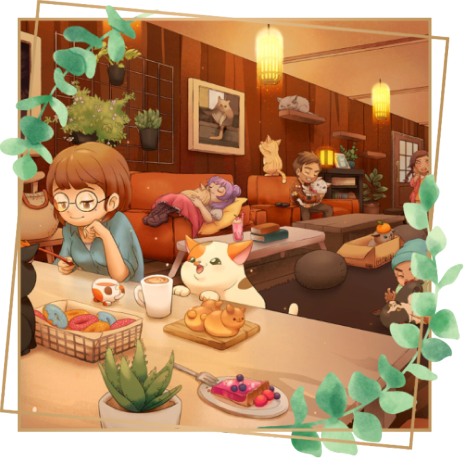
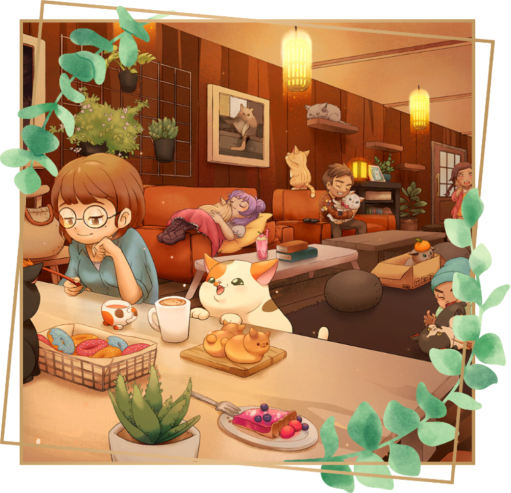
feat: Update background design of home page

diff --git a/cafe.html b/cafe.html
@@ -14,6 +14,57 @@
   </head>
   <body style="margin: 0">
   <script>
+  var recordButton = document.getElementById("recordButton");
+var audioContext = new AudioContext();
+var audioChunks = [];
+
+recordButton.addEventListener("click", function() {
+  if (audioContext.state === 'suspended') {
+    audioContext.resume();
+  }
+
+  if (recordButton.textContent === "Record") {
+    navigator.mediaDevices.getUserMedia({ audio: true })
+    .then(function(stream) {
+      var mediaRecorder = new MediaRecorder(stream);
+      mediaRecorder.start();
+
+      mediaRecorder.addEventListener("dataavailable", function(event) {
+        audioChunks.push(event.data);
+      });
+
+      mediaRecorder.addEventListener("stop", function() {
+        var audioBlob = new Blob(audioChunks);
+        audioChunks = [];
+        var formData = new FormData();
+        formData.append("file", audioBlob, "recording.wav");
+
+        $.ajax({
+          url: "https://api.whisper.ai/upload",
+          method: "POST",
+          data: formData,
+          processData: false,
+          contentType: false,
+          success: function(response) {
+            console.log(response);
+          },
+          error: function(error) {
+            console.log(error);
+          }
+        });
+      });
+
+      recordButton.textContent = "Stop";
+    });
+  } else {
+    mediaRecorder.stop();
+    recordButton.textContent = "Record";
+  }
+});
+  error: function(error) {
+    console.log(error);
+  }
+});
       function play() {
         var audio = document.getElementById("audio");
         audio.play();
@@ -49,11 +100,11 @@
             <img class="image-3 image" src="img/image-3@2x.png" alt="image 3" />
             <div class="rectangle-4"></div>
             <div class="rectangle-5"></div>
-            <a href="{{ url_for('play-audio')}}" ><h1 class="repeat">Repeat</h1></a>
-<!--              <div class="repeat"><input type="button" value="Repeat" onclick="play()">-->
+            <a href="#" onclick="return false;"><h1 class="repeat">Repeat</h1></a>
+            <a href="https://github.com/young-chen2/treehacks-23"><h1 class="title">Speak</h1></a>
 <!--              <audio id="audio" src="response.mp3"></audio></div>-->
 <!--            <div class="repeat"><input type="button" value="Repeat" onclick="play()">-->
-            <a href="#" onclick="window.open({{ url_for('record-audio')}}); window.open({{ url_for('upload-audio')}});"><h1 class="title">Speak</h1></a>
+<!--            <h1 class="title"><button id="recordButton">Speak</button></h1></a>-->
             <img
               class="icon-message-question"
               src="img/---icon--message-question-@2x.png"

diff --git a/home.html b/home.html
@@ -4,22 +4,22 @@
     <meta charset="utf-8" />
     <!--<meta name=description content="This site was generated with Anima. www.animaapp.com"/>-->
     <!-- <link rel="shortcut icon" type=image/png href="https://animaproject.s3.amazonaws.com/home/favicon.png" /> -->
-    <meta name="viewport" content="width=1440, maximum-scale=1.0" />
+    <meta name="viewport" content="width=1920, maximum-scale=1.0" />
     <link rel="shortcut icon" type="image/png" href="https://animaproject.s3.amazonaws.com/home/favicon.png" />
     <meta name="og:type" content="website" />
     <meta name="twitter:card" content="photo" />
-    <link rel="stylesheet" type="text/css" href="css/wireframe-1.css" />
+    <link rel="stylesheet" type="text/css" href="css/home.css" />
     <link rel="stylesheet" type="text/css" href="css/styleguide.css" />
     <link rel="stylesheet" type="text/css" href="css/globals.css" />
   </head>
   <body style="margin: 0; background: #ffffff">
-    <input type="hidden" id="anPageName" name="page" value="wireframe-1" />
+    <input type="hidden" id="anPageName" name="page" value="home" />
     <div class="container-center-horizontal">
-      <div class="wireframe-1 screen">
-        <div class="overlap-group1 overlap"><a href="#bottom"><img class="group" src="img/group@2x.png" alt="Group" /></a></div>
-            <div class="overlap-group overlap">
-              <a href="cafe.html" class="button"><img class="mask-group" src="img/mask-group@2x.png" alt="Mask group" id="bottom"/>
-             </a></div>
+      <div class="home screen">
+        <div class="group-container">
+          <a href="cafe.html" class="button"><div class="mask-group" id="bottom"></div></a>
+          <a href="#bottom"><img class="group" src="img/group@2x.png" alt="Group" /></a>
+        </div>
       </div>
     </div>
   </body>

diff --git a/css/home.css b/css/home.css
@@ -1,0 +1,35 @@
+/* screen - home */
+
+.home {
+  align-items: flex-start;
+  background-color: #ffffff;
+  border: 1px none;
+  display: flex;
+  width: 1920px;
+}
+
+.home .group-container {
+  align-items: center;
+  background-image: url(../img/image-1.png);
+  background-position: 50% 50%;
+  background-size: cover;
+  display: flex;
+  gap: 54px;
+  height: 2160px;
+  min-width: 1920px;
+  padding: 454.6px 601.0px;
+}
+
+.home .mask-group {
+  align-self: flex-end;
+  background-image: url(../img/mask-group@2x.png);
+  background-size: 100% 100%;
+  height: 246px;
+  width: 255px;
+}
+
+.home .group {
+  height: 101px;
+  margin-bottom: 165.0px;
+  width: 101px;
+}

diff --git a/css/globals.css b/css/globals.css
@@ -4,7 +4,9 @@
 @import url("https://px.animaapp.com/63f14111832e57a228e0203b.63f14112f230318c7c4e4289.v0Ee2gC.hcp.png");
 
 
-
+html {
+  scroll-behavior: smooth;
+}
 .screen a {
   display: contents;
   text-decoration: none;
